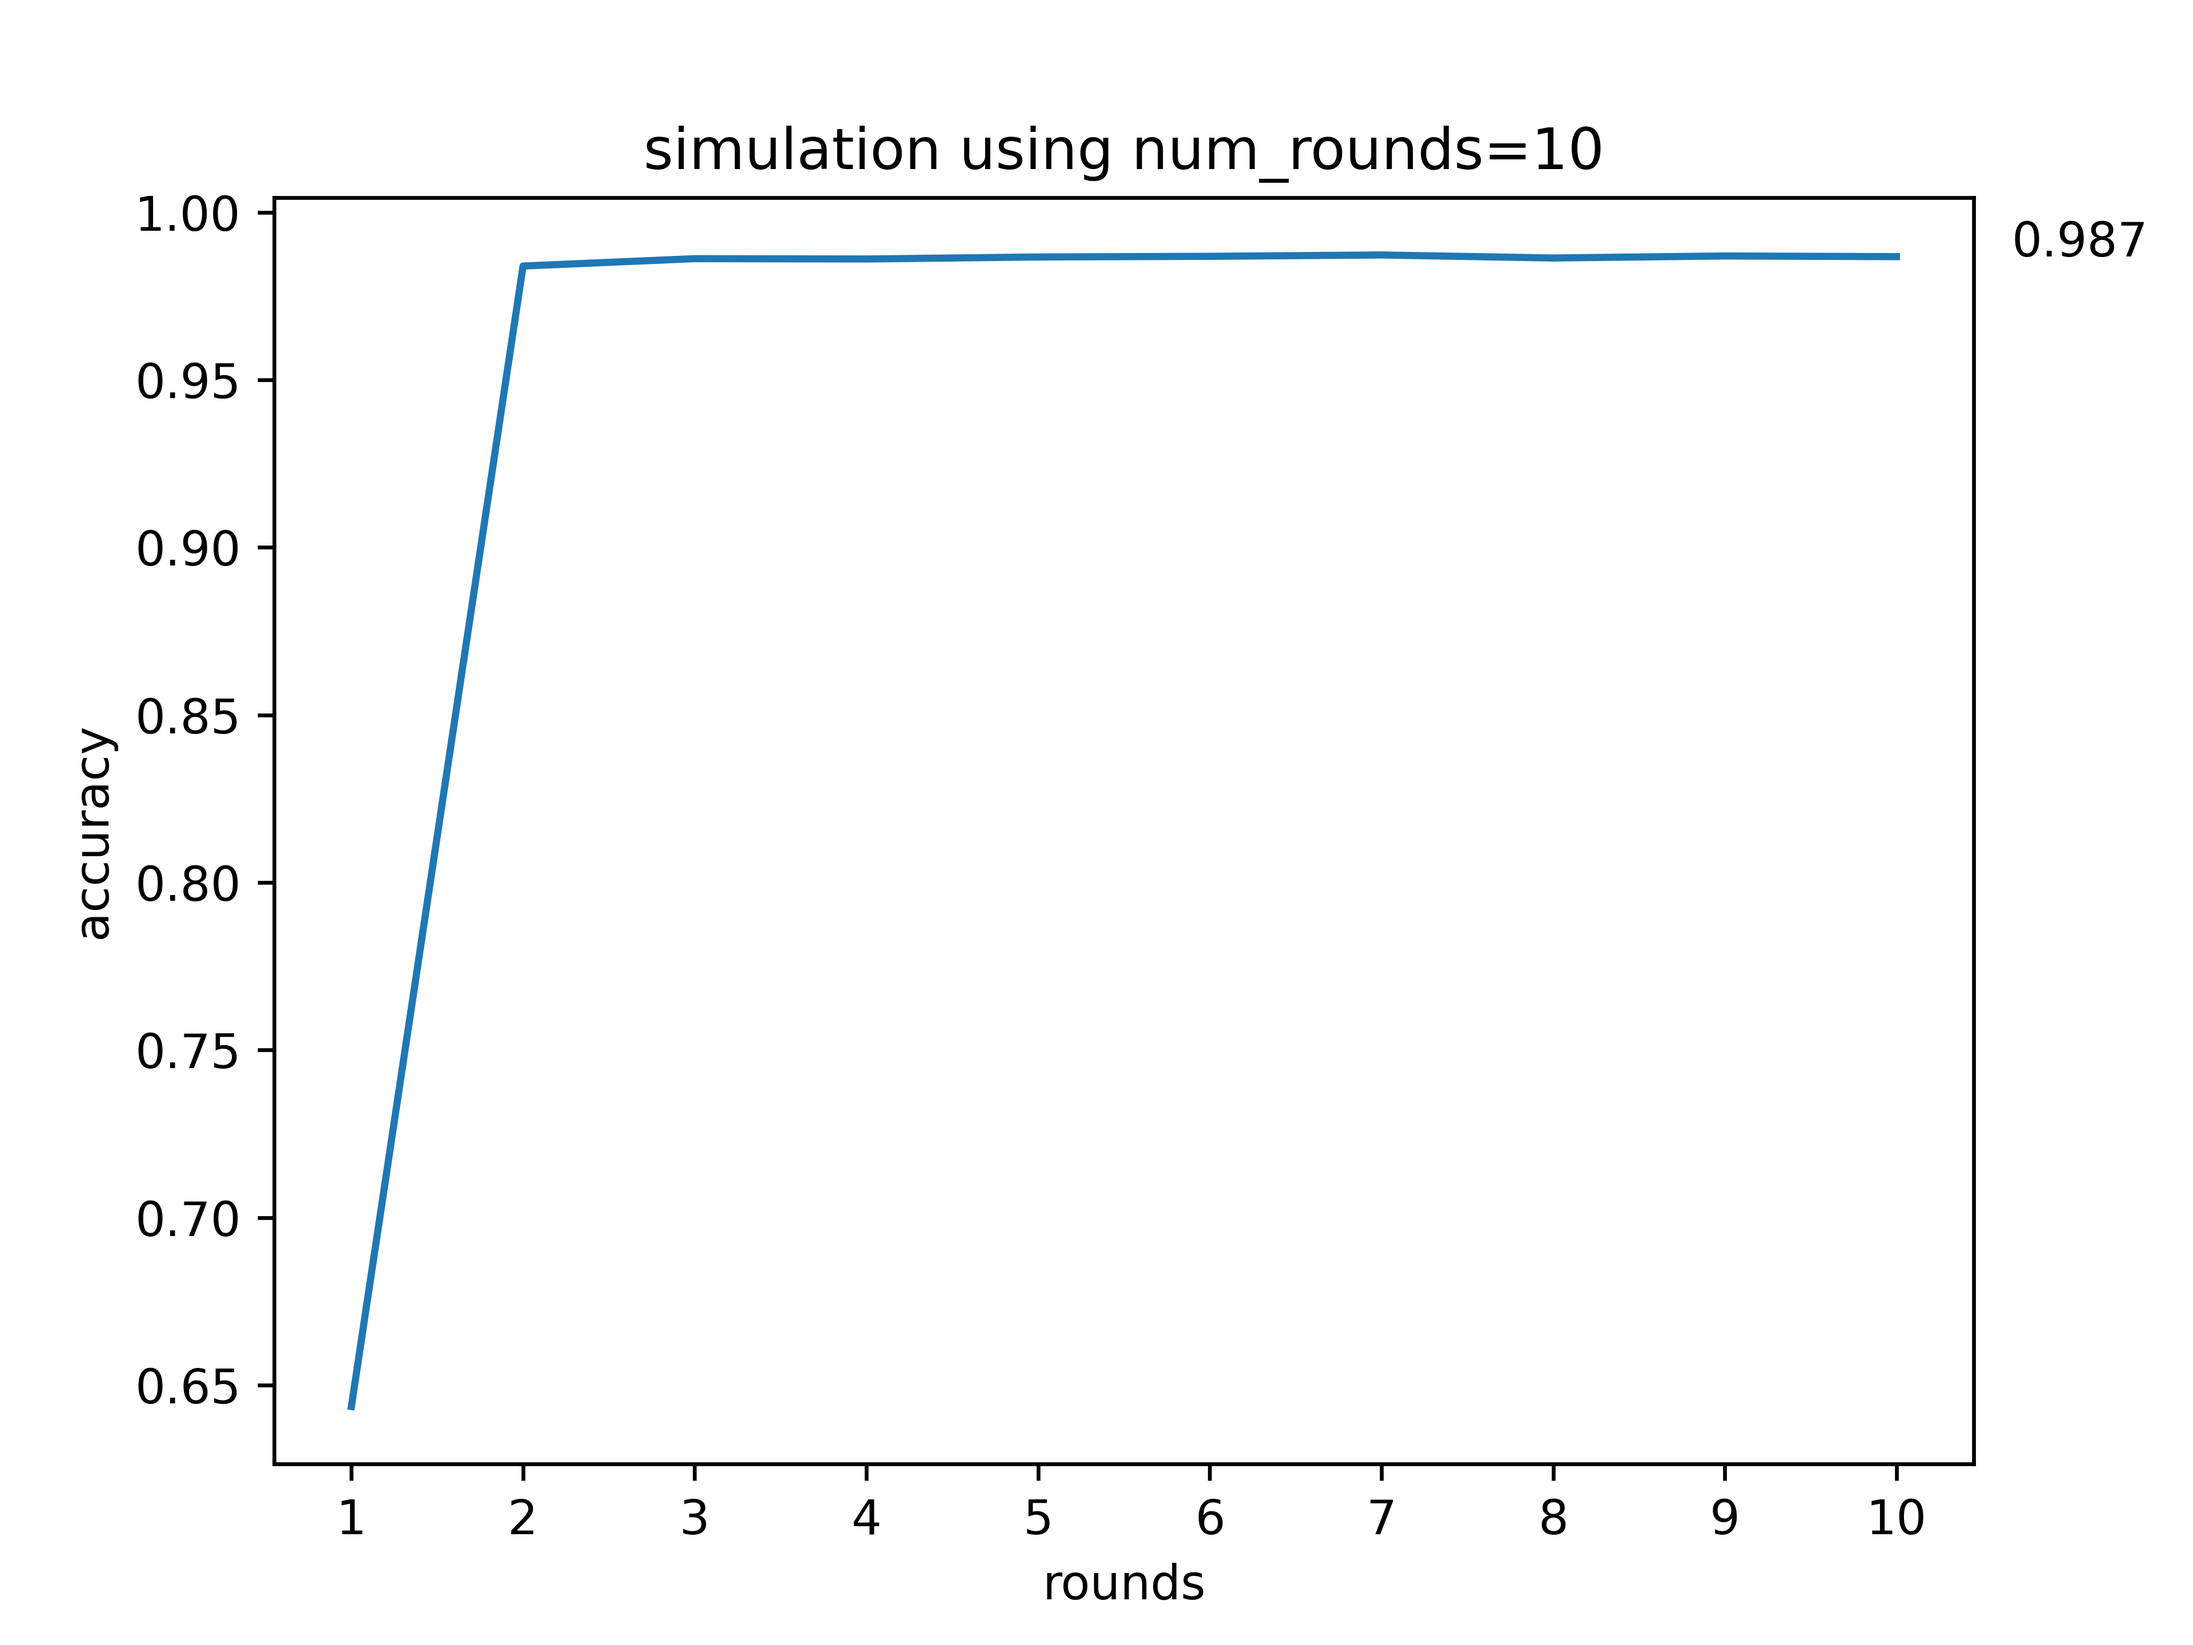
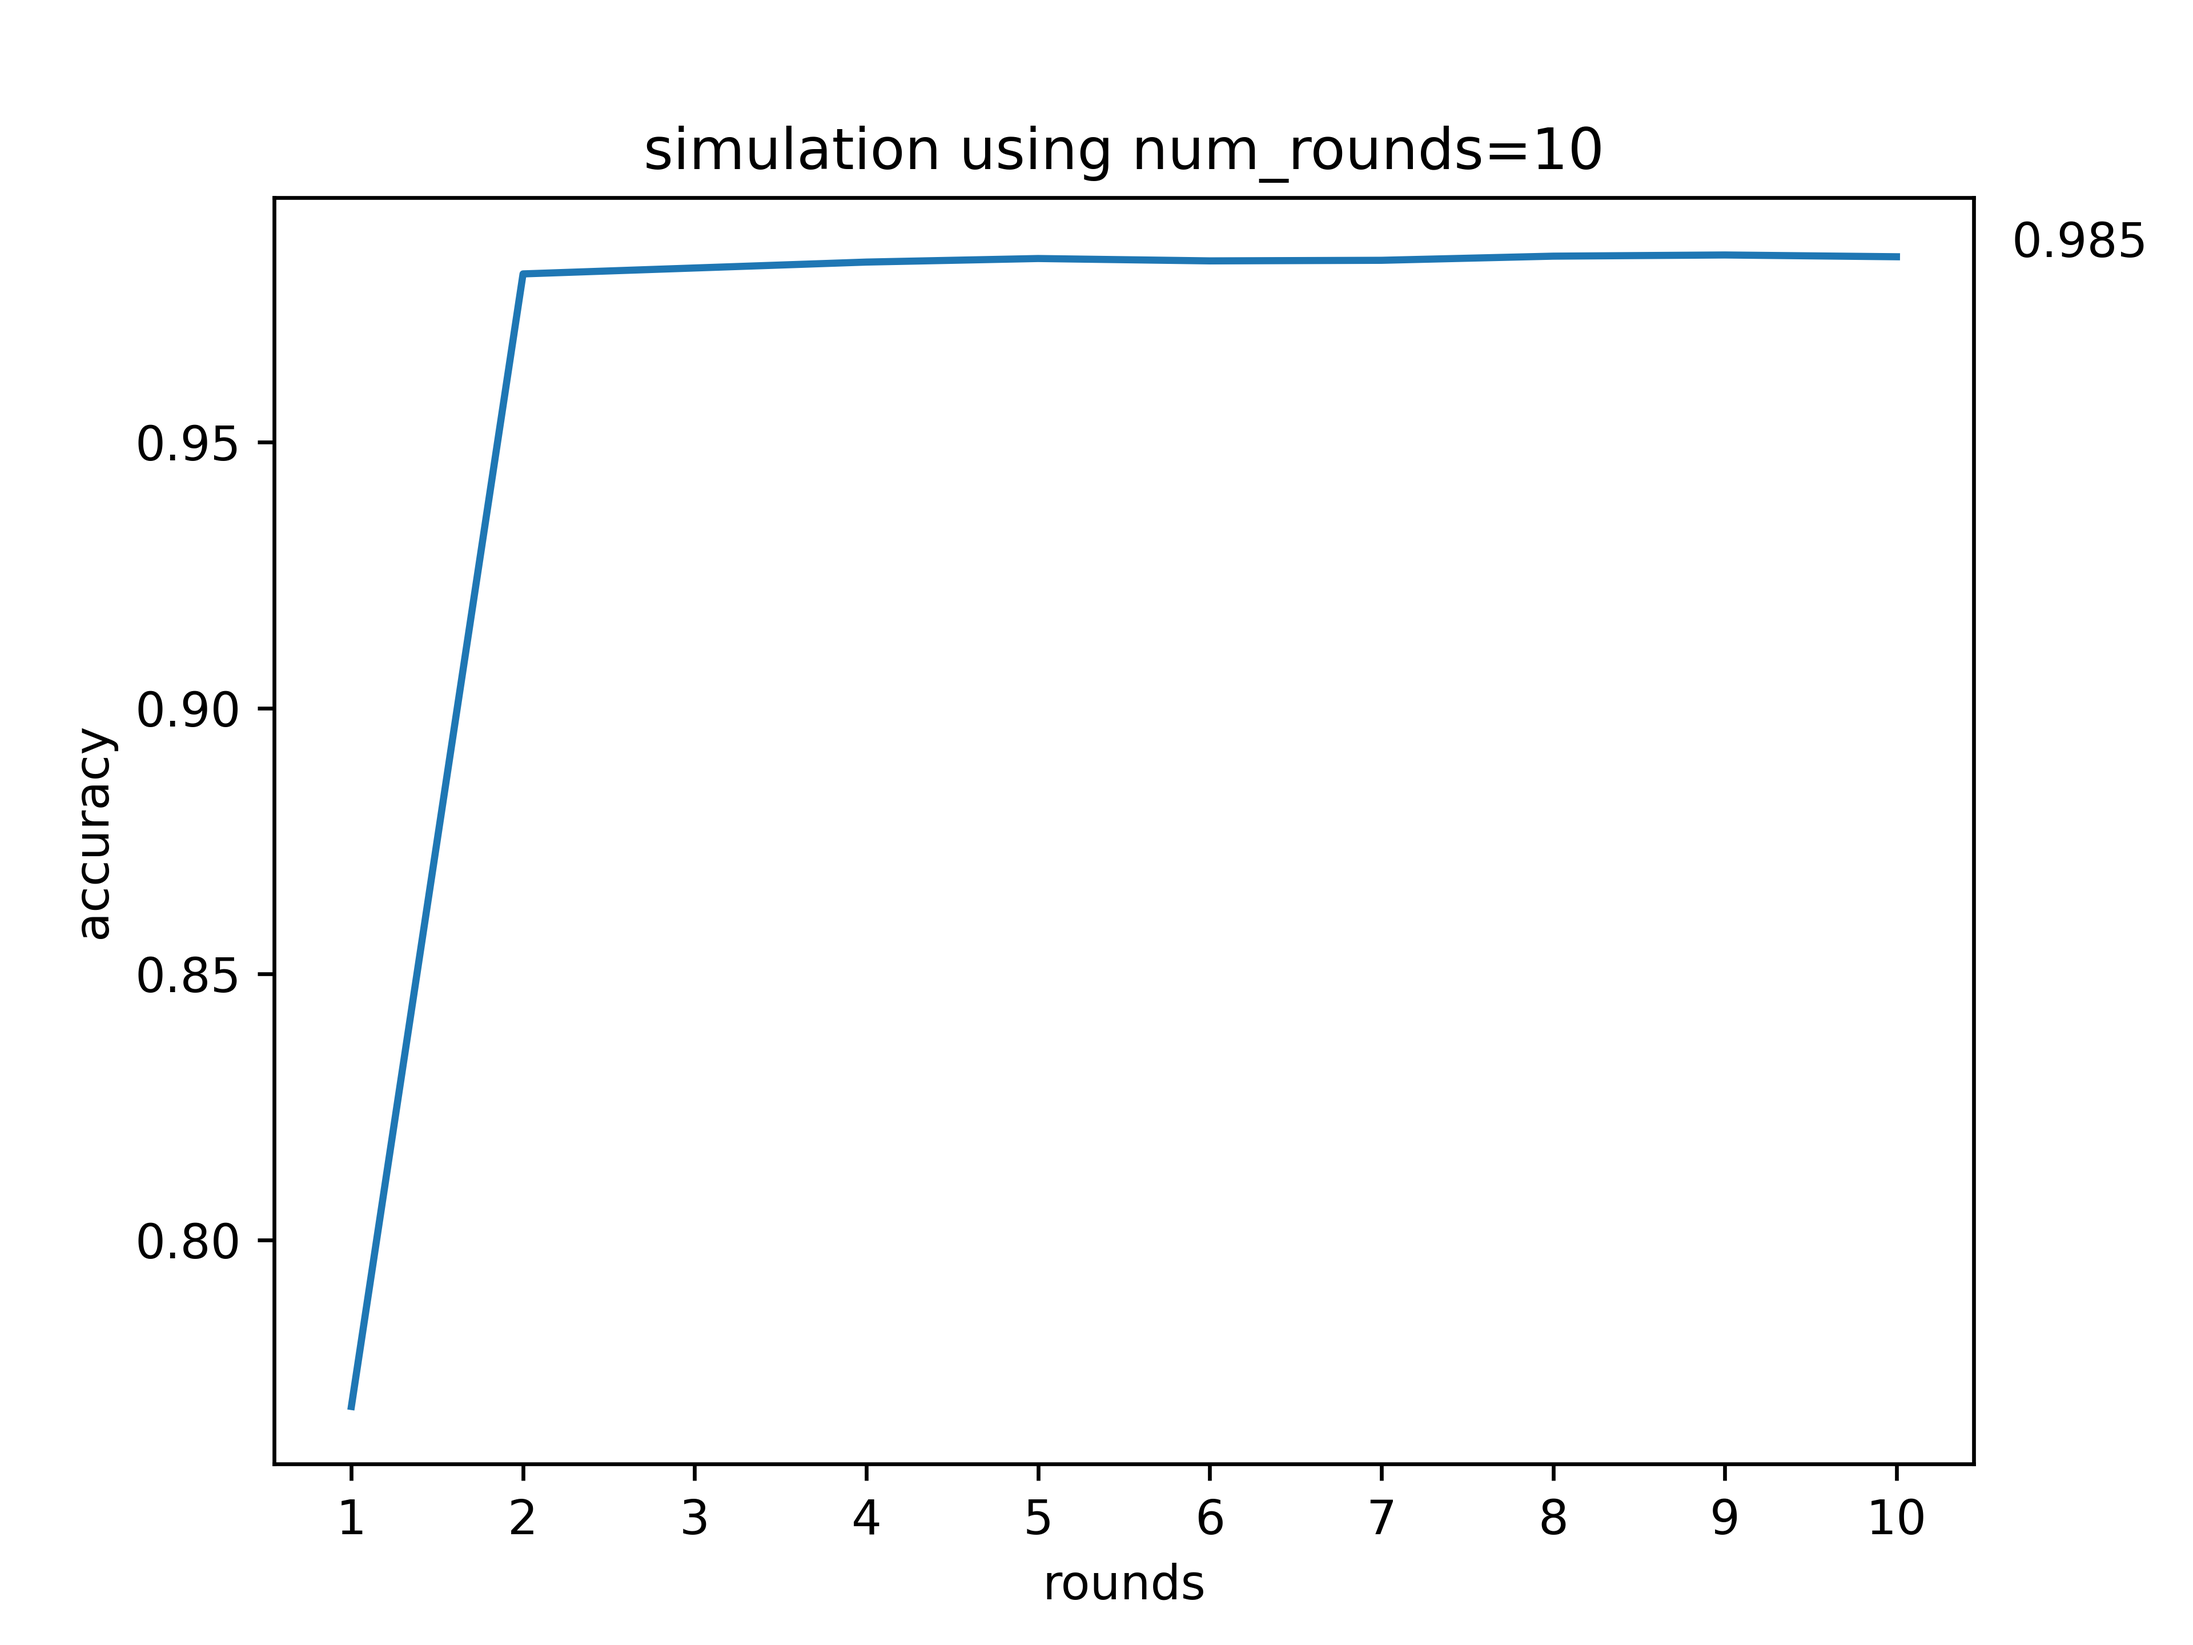
ultimo update trab

diff --git a/trab1/trainer.py b/trab1/trainer.py
@@ -44,12 +44,15 @@ class Trainer:
         idx_train = np.random.choice(np.arange(len(x_train)), self.num_samples, replace=False)
         x_train = x_train[idx_train]
         y_train = tf.one_hot(y_train[idx_train].astype(np.int32), depth=10)
-        y_test = tf.one_hot(y_test.astype(np.int32), depth=10)
+        
+        idx_test = np.random.choice(np.arange(len(x_test)), 3000, replace=False)
+        x_test = x_test[idx_test]
+        y_test = tf.one_hot(y_test[idx_test].astype(np.int32), depth=10)
 
         return x_train, y_train, x_test, y_test
 
     def train_model(self):
-        self.model.fit(x=self.x_train, y=self.y_train, batch_size=64, epochs=5, verbose=3)
+        self.model.fit(x=self.x_train, y=self.y_train, batch_size=64, epochs=10, verbose=3)
 
     def eval_model(self):
         acc = self.model.evaluate(x=self.x_test, y=self.y_test, verbose=False)[1]

diff --git a/trab1/readme.md b/trab1/readme.md
@@ -1,6 +1,6 @@
 # Trabalho I - Aprendizado Federado
 
-[Link para o vídeo de apresentação (desculpa passar um pouco dos 3min, foi por conta da espera na simulação :) )](https://drive.google.com/file/d/1h6Hqw4KrjuOEc1bjYAa89pnVQ0_lMsnJ/view?usp=share_link)
+[Link para o vídeo de apresentação (passou um pouco do tempo por conta da simulação : ) )](https://drive.google.com/file/d/16TX8HHeJ0PMHymjFtlzGAHd0vSRjbtyv/view?usp=share_link)
 
 ## Integrantes do grupo
 2022132020 - Mestrado - Breno Aguiar Krohling
@@ -19,8 +19,11 @@ Nesse trabalho foi pedido a implementação do esquema de aprendizado federado u
 O diretório está organizado da seguinte forma:
 
 `./client.py`: é o arquivo que inicia o cliente e conexão com broker/callback de mensagens.
+
 `./server.py`: é o arquivo que inicia o servidor e conexão com broker/callback de mensagens.
+
 `./trainer.py`: é o arquivo que contém a implementação da classe `Trainer`, que contém as implementações das operações feitas no `client.py`.
+
 `./controller.py`: é o arquivo que contém a implementação da classe `Controller`, que contém as implementações das operações feitas no `server.py`.
 
 ### Instruções para execução
@@ -28,7 +31,7 @@ Para execução do servidor basta utilizar o seguinte comando:
 
 `python server.py <broker_address> <min_clients> <clients_per_round> <num_rounds> <accuracy_threshold>`
 
-Por exemplo, se quiser iniciar o servidor em um broker EMQX no localhost, com o mínimo de clientes necessário para iniciar o treinamento igual a 3, o número de clientes escolhidos por round igual a 2, e uma acurácia mínima de 97%, basta:
+Por exemplo, se quiser iniciar o servidor em um broker EMQX no localhost, com o mínimo de clientes necessário para iniciar o treinamento igual a 3, o número de clientes escolhidos por round igual a 2, número de rounds total igual a 5, e uma acurácia mínima de 97%, basta:
 
 `python server.py localhost 3 2 5 0.97`
 
@@ -50,15 +53,15 @@ Notamos que temos dois agentes principais: *client* e *server*. Como especificad
 
 O fluxo de treinamento implementado é o seguinte: 
 
-Primeiramente, deve-se conectar o *server*, que ao inicializar o processo, faz *subscribe* nas filas **registerQueue**, **preAggQueue** e **metricsQueue**. Uma vez que o *server* está funcionando, podemos começar a inicializar os treinadores. Ao inicializar cada *client* faz *subscribe* nas filas **selectionQueue**, **posAggQueue** e **stopQueue**. Ao incializar os clientes, também é feito o *sampling* de sua base local para treinamento dos modelos. É feito um *sampling* aleatório de `10000 < num_samples < 20000` na base MNIST para servir como sua base.  Note que esse processo acaba permitindo que mais de um cliente tenha exemplos repetidos, mas como o tratamento disso não era interessante para/no escopo desse trabalho em específico, foi utilizado dessa forma.
+Primeiramente, deve-se conectar o *server*, que ao inicializar o processo, faz *subscribe* nas filas **registerQueue**, **preAggQueue** e **metricsQueue**. Uma vez que o *server* está funcionando, podemos começar a inicializar os treinadores. Ao inicializar cada *client* faz *subscribe* nas filas **selectionQueue**, **posAggQueue** e **stopQueue**. Ao incializar os clientes, também é feito o *sampling* de sua base local para treinamento dos modelos. É feito um *sampling* aleatório de `10000 < num_samples < 20000` na base MNIST para servir como sua base de treino. Já para a base de teste, é feito um *sampling* de 3000 exemplos (~1/3 da base de teste) em todos os clientes.  Note que esse processo acaba permitindo que mais de um cliente tenha exemplos repetidos, mas como o tratamento disso não era interessante para/no escopo desse trabalho em específico, foi utilizado dessa forma.
 
-Quando cada client inicializa, ele também faz a primeira publicação de mensagem, que é a mensagem `{'id' : int}` na fila **registerQueue**, fazendo seu registro na *pool* de treinadores do *server*, que ao receber a mensagem, adiciona cada cliente a sua lista de clientes. Uma vez que o número mínimo de clientes passado ao servidor é atingido, o treinamento é inicializado. O *server*, ao atingir o número mínimo de clientes, faz uma escolha aleatória do número mínimo de clientes e envia mensagens `{'id': int, 'selected' : bool}` para a **selectionQueue**. Todos os clientes recebem todas as mensagens e fazem um *parsing* da mensagem por seu `id`. Os clientes escolhidos iniciam o treinamento em sua base local, e os que não são escolhidos ficam esperando. No fim do treinamento, os clientes escolhidos publicam a mensagem `{'id' : int, 'weights' : list, 'num_samples' : int}` na fila **preAggQueue**. Note que para serializar os pesos, que inicialmente são organizados em uma lista de `np.array` , é necessário fazer uma transformação para uma lista de listas, que depois é desfeita no servidor para cálculo do *Federated Avg*. Uma vez que o servidor recebe todos os pesos ele faz sua agregação e envia de volta para todos os clientes (até os que não treinaram). Esse envio é feito pela mensagem `{'weights' : list}` na fila **posAggQueue**. Os clientes recebem e fazem a atualização dos seus pesos locais. Ao atualizar, cada um dos clientes faz a validação dos novos pesos em sua base de teste local (que nesse trabalho são os 10k já separados pela base MNIST em todos os clientes), e envia a mensagem `{'id' : int, 'accuracy' : float}` na fila **metricsQueue**. O servidor, ao receber todas as acurácias, computa sua média e verifica se já chegou no threshold escolhido no início do treinamento, caso tenha passado o threshold, ele envia uma mensagem `{'stop' : bool}` para a fila **stopQueue **indicando para os clientes terminarem o processo. Caso contrário, um novo round é inicializado, e o processo é repetido. Caso o modelo nunca alcance o threshold de acurácia, ele irá parar com a mesma mensagem ao chegar no número máximo de rounds.
+Quando cada client inicializa, ele também faz a primeira publicação de mensagem, que é a mensagem `{'id' : int}` na fila **registerQueue**, fazendo seu registro na *pool* de treinadores do *server*, que ao receber a mensagem, adiciona cada cliente a sua lista de clientes. Uma vez que o número mínimo de clientes passado ao servidor é atingido, o treinamento é inicializado. O *server*, ao atingir o número mínimo de clientes, faz uma escolha aleatória do número mínimo de clientes e envia mensagens `{'id': int, 'selected' : bool}` para a **selectionQueue**. Todos os clientes recebem todas as mensagens e fazem um *parsing* da mensagem por seu `id`. Os clientes escolhidos iniciam o treinamento em sua base local, e os que não são escolhidos ficam esperando. No fim do treinamento, os clientes escolhidos publicam a mensagem `{'id' : int, 'weights' : list, 'num_samples' : int}` na fila **preAggQueue**. Note que para serializar os pesos, que inicialmente são organizados em uma lista de `np.array` , é necessário fazer uma transformação para uma lista de listas, que depois é desfeita no servidor para cálculo do *Federated Avg*. Uma vez que o servidor recebe todos os pesos ele faz sua agregação e envia de volta para todos os clientes (até os que não treinaram). Esse envio é feito pela mensagem `{'weights' : list}` na fila **posAggQueue**. Os clientes recebem e fazem a atualização dos seus pesos locais. Ao atualizar, cada um dos clientes faz a validação dos novos pesos em sua base de teste local, e envia a mensagem `{'id' : int, 'accuracy' : float}` na fila **metricsQueue**. O servidor, ao receber todas as acurácias, computa sua média e verifica se já chegou no threshold escolhido no início do treinamento, caso tenha passado o threshold, ele envia uma mensagem `{'stop' : bool}` para a fila **stopQueue **indicando para os clientes terminarem o processo. Caso contrário, um novo round é inicializado, e o processo é repetido. Caso o modelo nunca alcance o threshold de acurácia, ele irá parar com a mesma mensagem ao chegar no número máximo de rounds.
 
 No final do treinamento também é gerado um plot com a acurácia ao longo dos rounds!
 
 ## Exemplo de experimento e resultado
 
-Para experimentar, utilizamos alguns setups diferentes como no laboratório 2 utilizando a biblioteca `flower` . Para exemplificar iremos mostrar experimentos com número de rounds igual 10 (e sem threshold de acurácia, para que sejam feito todos os rounds). Foram utilizados 3 clientes e cada modelo treinou 10 épocas. As figuras abaixo apresentam os resultados obtidos.
+Para experimentar, utilizamos alguns setups diferentes como no laboratório 2 utilizando a biblioteca `flower` . Para exemplificar iremos mostrar experimentos com número de rounds igual 10 (e sem threshold de acurácia, para que sejam feito todos os rounds). Foram utilizados 3 clientes (e todos os 3 treinando em todos os rounds) e cada modelo treinou 10 épocas. As figuras abaixo apresentam os resultados obtidos. Para reproduzir esse experimento basta utilizar o comando: `python server.py localhost 3 3 10 1`
 
 <img src="figs/simulation-rounds=10.png" width="800"/>
 
@@ -66,7 +69,7 @@ Pode-se observar que o modelo chegou em uma acurácia ~0.98 no segundo round. Co
 
 <img src="figs/flower-simulation-rounds=10.png" width="800"/>
 
-Notamos que o modelo `flower` obteve um resultado melhor no primeiro round. Mas esse primeiro resultado pior pode ter sido por conta de alguma diferença de *sampling* dos dados de treinamento/ruído no treinamento da rede (em outros testes o primeiro round deu um resultado melhor, e em alguns outros semelhante ao apresentado). E também, a convergência foi mais rápida que a da biblioteca `flower`, mas que novamente pode ser só parte da aleatoriedade no treinamento da rede/*sampling* dos dados de treinamento ao longo dos rounds. Outro ponto é que no laboratório 2 não foi utilizado todos os 10k exemplos de teste do MNIST para validação, e sim uma parte dele, logo, isso também pode ter influênciado a melhor acurácia no round 1. 
+Notamos que o modelo `flower` obteve um resultado melhor no primeiro round. Mas esse primeiro resultado pior pode ter sido por conta de alguma diferença de *sampling* dos dados de treinamento/ruído no treinamento da rede (em outros testes o primeiro round deu um resultado melhor, e em alguns outros semelhante ao apresentado). E também, a convergência foi mais rápida que a da biblioteca `flower`, mas que novamente pode ser só parte da aleatoriedade no treinamento da rede ao longo dos rounds ou *sampling* dos dados de treinamento/teste. 
 
 De qualquer forma, o fato mais importante é que houve aprendizado e convergência em nossa implementação e com esses resultados acreditamos que a performance foi satisfatória no problema.
 
